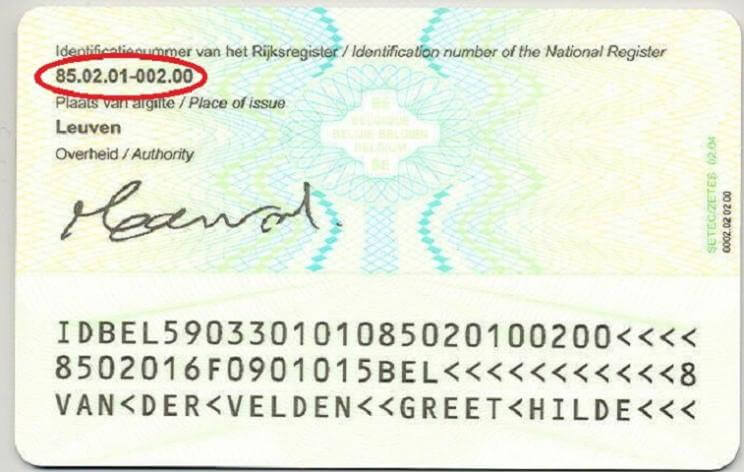
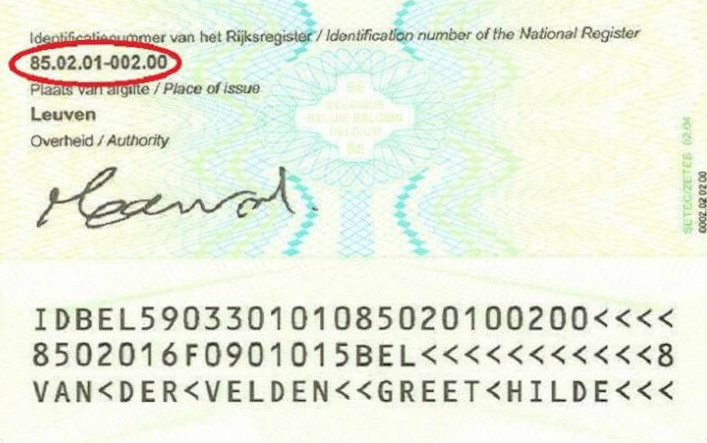
Image fix

diff --git a/Hoofdstuk 1.1/Evaluatie/Toetsvraag 12 - Rijksregisternummer/description/description.nl.md b/Hoofdstuk 1.1/Evaluatie/Toetsvraag 12 - Rijksregisternummer/description/description.nl.md
@@ -4,7 +4,7 @@ Het rijksregisternummer is een uniek identificatienummer toegekend aan natuurlij
 
 Het rijksregisternummer staat achteraan op de identiteitskaart. 
 
-![Een voorbeeld van een rijksregisternummer.](media/rijksregisternummer.jpg "Een voorbeeld van een rijksregisternummer."){:data-caption="Een voorbeeld van een rijksregisternummer." width="744px"}
+![Een voorbeeld van een rijksregisternummer.](media/rijksregisternummer.jpg "Een voorbeeld van een rijksregisternummer."){:data-caption="Een voorbeeld van een rijksregisternummer." width="30%"}
 
 Dit nummer bestaat uit elf cijfers, waarvan de eerste zes cijfers corresponderen met de **geboortedatum**, in de volgorde jaar, maand en dag. De volgende 5 cijfers bestaan uit de **dagteller** van het aantal geboortes die dag en daarna een **controlegetal**.
 
